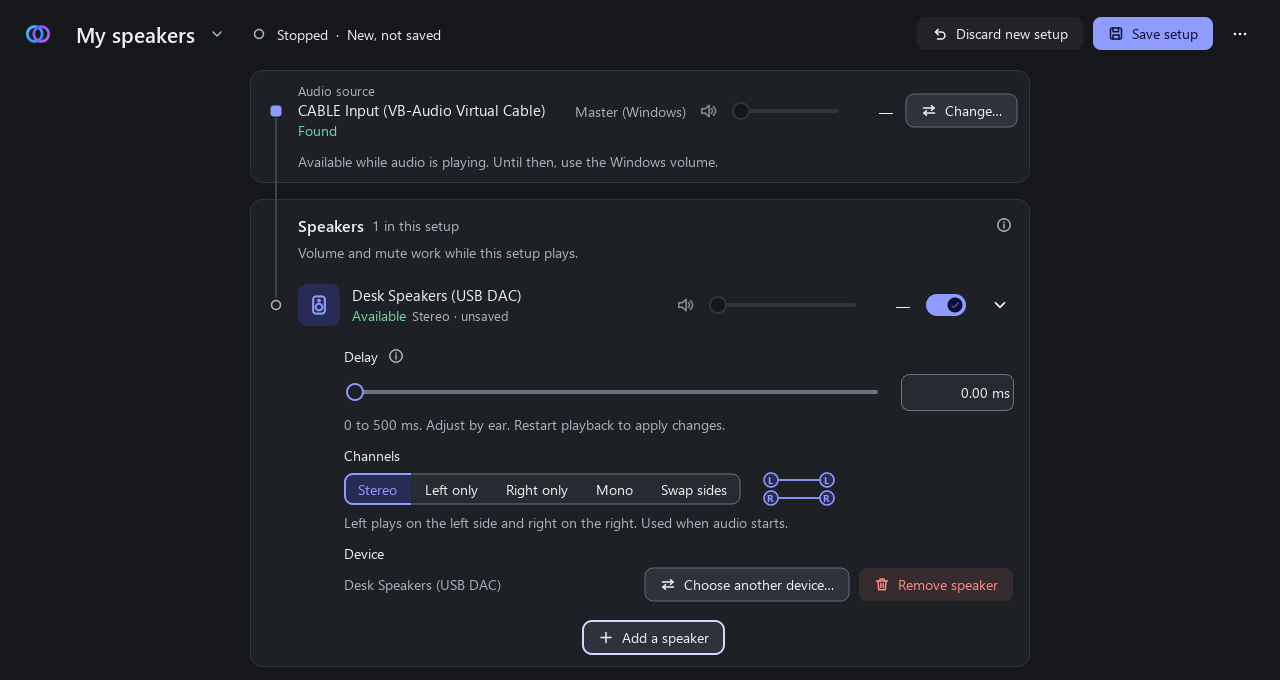
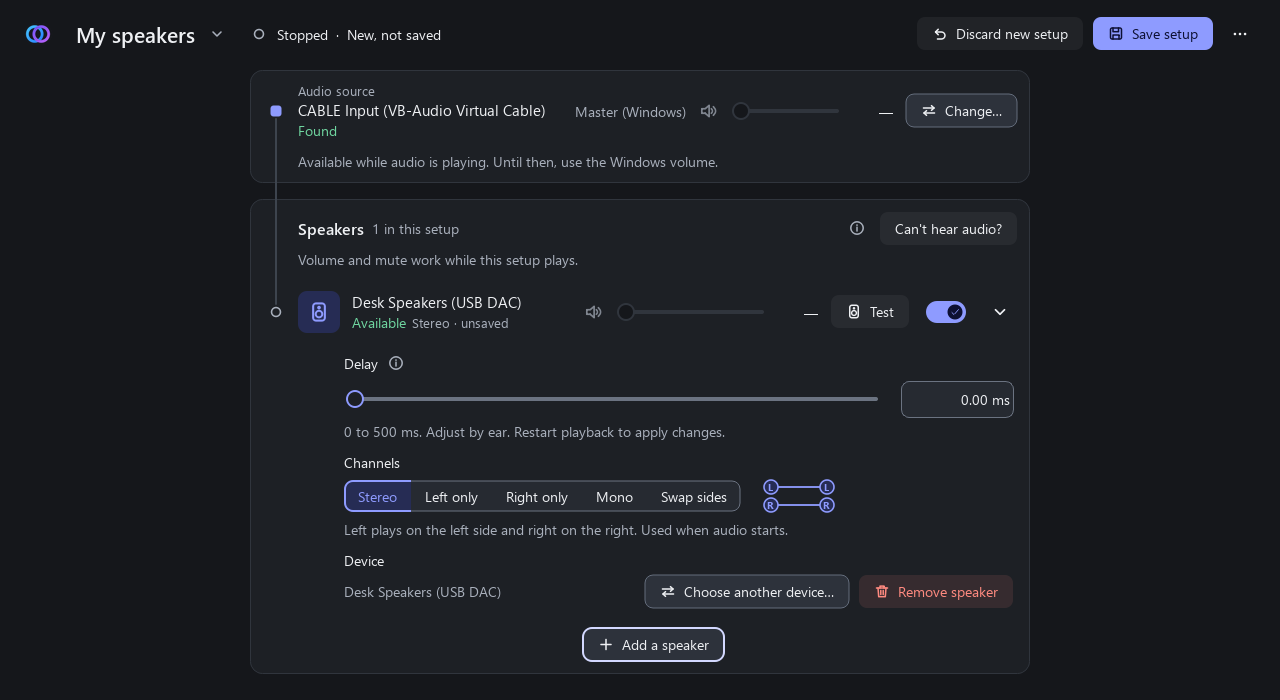
docs: describe the speaker Test button, routing card and help for beta.2
Explain the per-speaker Test button (what it does and does not prove),
the Send audio to PlayNice card and the Volume Mixer button, the
Can't hear audio? help, and the audio-path summary in the diagnostic
report. Refresh the screenshots that show the speaker list.

diff --git a/docs/getting-started.md b/docs/getting-started.md
@@ -127,6 +127,7 @@ If the cable is not found, the screen instead says **Set up your audio source** 
 2. Choose **Add a speaker**. A list of the playback devices Windows has appears.
 3. Select your **wired speaker** and choose **OK**.
 4. Choose **Save setup** at the top right.
+5. Optional: choose **Test** on the speaker's row. PlayNice plays a short, soft sound on that speaker only, so you can check it before anything else. It says *Test sound sent to ... Did you hear it?* That means Windows was given the sound, not that you heard it; if you heard nothing, see [No sound from one speaker](troubleshooting.md#no-sound-from-one-speaker). **Test** does not need VB-CABLE to carry any sound, and it never changes the speaker's Windows volume or mute: if the speaker is muted or at zero in Windows, PlayNice tells you instead. It is off while the playing setup uses that speaker; choose **Stop audio** first.
 
 PlayNice does not accept the cable itself as a speaker. If a device is listed as *unavailable* or *not available now*, switch it on or reconnect it, then use the refresh button in the list.
 
@@ -140,15 +141,15 @@ PlayNice does not accept the cable itself as a speaker. If a device is listed as
   <img src="../assets/screenshots/first-speaker-light.png" alt="A new setup with the cable as source and one speaker added, before saving" width="640">
 </picture>
 
-Saving does not start audio.
+Saving does not start audio. Once the setup is saved, PlayNice shows a card called **Send audio to PlayNice**, with the line *Setup saved. Start audio when you're ready.*
 
 ## 9. Start audio, then route one program to the cable
 
 Order matters here: start PlayNice first, so that sound sent to the cable has somewhere to go.
 
-1. In PlayNice, choose **Start audio**. The status becomes **Playing**.
+1. In PlayNice, choose **Start audio**. The status becomes **Playing**. The card now says *PlayNice is running. Send audio to CABLE Input to hear it through your speakers.* until it hears sound from the cable, and then *Playing on 2 speakers.* (the number of speakers that are playing).
 2. Start something playing in your browser, for example a video. At this moment you may hear it on your normal speakers, because the browser is still using the Windows default device.
-3. In Windows, open **Settings > System > Sound > Volume mixer**.
+3. In Windows, open **Settings > System > Sound > Volume mixer**. The card's **Open Windows Volume Mixer** button opens it for you (it only opens the page; PlayNice does not change any setting in it). **How does this work?** shows these steps again.
 4. Find your browser in the list. For that browser, set the **Output** (the device it plays to) to **CABLE Input (VB-Audio Virtual Cable)**. If you do not see an output list, open the browser's entry (the small arrow on its row) first.
    - A program usually appears in the mixer only after it has played sound. Play something, then look again.
    - Some programs only move to the new device after you pause and resume, or restart them.
@@ -159,6 +160,10 @@ Order matters here: start PlayNice first, so that sound sent to the cable has so
 **Check that it works:** you should hear the browser's sound on the wired speaker only. The Windows default device should be silent for that browser.
 
 **If you hear nothing:** see [No sound from any speaker](troubleshooting.md#no-sound-from-any-speaker). The usual causes are a browser still pointed at another device, or PlayNice not yet playing.
+
+You can also make **CABLE Input** the Windows default output. That sends all sound from the computer through PlayNice. It is optional, and PlayNice never does it for you. Sound sent to CABLE Input cannot be heard while PlayNice is stopped, so choose the default device again (or set the program's output back) if you stop PlayNice.
+
+**Can't hear anything?** Choose **Can't hear audio?** above the speaker list. PlayNice lists what it can tell: whether VB-CABLE is installed, whether a speaker is missing, muted in Windows or failed, and whether it has heard any sound from the cable recently. Silence alone is not an error: a paused video looks the same, so that hint only suggests checking the program's output in Volume Mixer.
 
 **Only that one program goes to PlayNice.** Everything else on the computer keeps using the Windows default device, so you will keep hearing notifications and other programs normally.
 
@@ -174,7 +179,7 @@ Both speakers should now play the browser's sound.
 
 <picture>
   <source media="(prefers-color-scheme: dark)" srcset="../assets/screenshots/playing-two-speakers-dark.png">
-  <img src="../assets/screenshots/playing-two-speakers-light.png" alt="PlayNice playing a setup on two speakers, each with its own volume and a switch" width="640">
+  <img src="../assets/screenshots/playing-two-speakers-light.png" alt="PlayNice playing a setup on two speakers: the Send audio to PlayNice card on top, and for each speaker a volume slider, a Test button and a switch" width="640">
 </picture>
 
 ## 11. Adjust volume and timing

diff --git a/docs/troubleshooting.md b/docs/troubleshooting.md
@@ -8,6 +8,8 @@ Jump to: [No sound from any speaker](#no-sound-from-any-speaker) · [No sound fr
 
 Work through these in order. Each one is a separate possible cause.
 
+**Quickest check:** choose **Can't hear audio?** above the speaker list. It names what PlayNice can establish (VB-CABLE missing or not available, a speaker not connected, muted in Windows or failed to start, audio not started, no sound detected from CABLE Input recently) and offers the matching button. It never changes your Windows settings. The steps below are the long version.
+
 1. **Is PlayNice playing?** The header should say **Playing** and the button should say **Stop audio**. If it says **Stopped**, choose **Start audio**. If an error banner is shown, read it; it says what failed.
 2. **Is the controller running?** A banner saying the controller is not running means nothing can start. Choose **Start controller**.
 3. **Is the program really sending its sound to the cable?** Open **Settings > System > Sound > Volume mixer** and check that the program's **Output** is **CABLE Input (VB-Audio Virtual Cable)**. If you routed nothing to the cable, PlayNice has nothing to play. (If you left the program on the Windows default device, you hear it on that device and PlayNice is not involved.)
@@ -17,10 +19,13 @@ Work through these in order. Each one is a separate possible cause.
 7. **Are the speakers on, connected and turned up?** Each speaker's own volume and mute (on its row and in Windows Sound settings) apply. A speaker listed as unavailable cannot play.
 8. **Are the speakers switched on in the setup?** Each row has a switch. A speaker switched off in the setup is silent.
 9. **Did you save and restart after changing the setup?** A speaker added to a playing setup starts only after **Restart to apply changes**.
+10. **Does the speaker itself work?** Choose **Test** on its row (stop audio first if the playing setup uses it). If you hear the test sound there but not your program, the problem is the routing in Volume mixer; if you hear nothing from **Test** either, the speaker, its Windows volume or its connection is the cause.
 
 If it still fails, [export a diagnostic report](diagnostic-report.md) and [report it](reporting-a-bug.md).
 
 ## No sound from one speaker
+
+**Try Test first.** Choose **Test** on that speaker's row. "Test sound sent to ... Did you hear it?" means Windows was handed the sound. If you did not hear it, continue below. If **Test** says the speaker is muted or at zero in Windows, unmute it or raise it in Windows yourself; PlayNice will not do it. If **Test** says it could not open the speaker, check that nothing else has taken the device exclusively (some apps do) and try again.
 
 1. **Is it listed and available?** On its row, the status should say **Available** or **Playing**. If it says unavailable or not available now, switch it on or reconnect it, then restart playback.
 2. **Was it on when playback started?** A speaker that was off at the start does not join automatically. Switch it on, then choose **Restart audio** or **Restart to apply changes**.

diff --git a/docs/settings-guide.md b/docs/settings-guide.md
@@ -101,6 +101,20 @@ PlayNice does not have a volume of its own. Its sliders are Windows' volumes:
 - If the keyboard volume keys control another device (the cable is not the Windows default output), the Master row says so. This is expected when you route only one program to the cable.
 - Setups saved with older software-volume settings show a notice with a **Remove old volume settings** button.
 
+### Test
+
+Each speaker row has a **Test** button. It plays a short, soft, generated sound (under a second) on that one speaker, for checking that the speaker works with PlayNice.
+
+- It uses the speaker you pressed it on, not the Windows default device, and it does not need any program to be sending sound to the cable.
+- It does not change the speaker's Windows volume or mute, and it does not start or change the setup. If the speaker is muted or at zero in Windows, PlayNice says so and plays nothing; unmute it or raise it yourself.
+- It is off while the playing setup uses that speaker (choose **Stop audio** first), while another test is playing, and for a speaker that is not connected. The button's tooltip says why.
+- *Test sound sent to ... Did you hear it?* means Windows accepted the sound. PlayNice cannot know whether you heard it, and it keeps no answer. A successful test says nothing about how well several speakers are lined up.
+- It stops by itself after about a second, and at the latest after a few seconds; closing the window ends it too.
+
+### Send audio to PlayNice and Can't hear audio?
+
+Under the audio source, a saved setup with a working VB-CABLE shows a card with one sentence about the state of playback and two buttons. **Open Windows Volume Mixer** opens that Windows Settings page (or the Sound page if Windows cannot open it); it changes nothing. **How does this work?** shows the five steps. **Can't hear audio?**, above the speaker list, lists what PlayNice can tell about why nothing is heard. It never changes a Windows setting.
+
 ### Channel modes
 
 For each speaker, open it and choose **Channels**:

diff --git a/docs/faq.md b/docs/faq.md
@@ -56,6 +56,14 @@ Only if you choose it. After you confirm the uninstall, Setup asks **Also uninst
 
 The installer is not yet signed, so Windows may warn about it or block it. Only use an installer from this repository's Releases page, check its checksum, and do not turn off Defender or SmartScreen or add exclusions to run it. See [Installation](installation.md#windows-warnings), and [If Smart App Control blocks PlayNice](installation.md#if-smart-app-control-blocks-playnice) if Smart App Control stops it.
 
+## How do I check one speaker?
+
+Choose **Test** on its row. PlayNice plays a short, soft sound on that speaker only and then says *Test sound sent to ... Did you hear it?* PlayNice can tell that Windows accepted the sound; it cannot know whether you heard it. **Test** works without VB-CABLE carrying anything, does not change the Windows volume or mute, and is off while the playing setup uses that speaker.
+
+## Why do I hear nothing even though PlayNice is playing?
+
+Usually because no program is sending its sound to **CABLE Input**. PlayNice only plays what arrives there. Choose **Open Windows Volume Mixer** on the card under the source, set the program's output to **CABLE Input**, and start something playing. **Can't hear audio?** lists the other causes it can detect. PlayNice never changes the Windows default device or a program's output by itself.
+
 ## Does PlayNice send my information anywhere?
 
 PlayNice does not upload your setups, devices or diagnostic reports. A [diagnostic report](diagnostic-report.md) is saved on your computer only when you ask for one, and you decide whether to share it.

diff --git a/README.md b/README.md
@@ -14,7 +14,7 @@ example a monitor, a USB headset and a Bluetooth speaker.
 
 <picture>
   <source media="(prefers-color-scheme: dark)" srcset="assets/screenshots/outputs-dark.png">
-  <img src="assets/screenshots/outputs-light.png" alt="The PlayNice window playing one setup on two speakers, each with its own volume and mute" width="720">
+  <img src="assets/screenshots/outputs-light.png" alt="The PlayNice window playing one setup on two speakers, with the Send audio to PlayNice card, and a volume, mute and Test button for each speaker" width="720">
 </picture>
 
 *The screenshots on this page use made-up device names.*
@@ -26,6 +26,7 @@ example a monitor, a USB headset and a Bluetooth speaker.
 - **Select an audio source**: the sound of Windows, or of one program, sent to a virtual cable.
 - Save **speaker setups** and switch between them.
 - Set **volume and mute** for each speaker. These change the speaker's volume in Windows.
+- **Test** each speaker with a short, soft sound before you rely on it, and get guided help when you **can't hear audio**.
 - Choose **channels** for each speaker (stereo, left, right, mono or swapped sides).
 - Adjust **timing by ear** with a delay for each speaker.
 - **Start PlayNice at sign-in**, if you want it to.

diff --git a/docs/diagnostic-report.md b/docs/diagnostic-report.md
@@ -24,6 +24,8 @@ The file is named like `PlayNice-Diagnostics-20261030-140509.zip`. The date and 
 
 Devices appear as `source-1`, `speaker-1`, `speaker-2`. These names only mean something inside one report.
 
+**Audio path summary.** Since 0.1.0-beta.2 the report also has a short block of fixed words and counts: whether VB-CABLE looks absent, usable, inactive, unhealthy or waiting for a restart; whether sound from the cable is idle, present or was lost; how many speakers are set up, playing and failed; and how the last **Test** on a speaker ended (completed, failed, cancelled, timed out and so on, with Windows' error code when there was one). It does not say whether you heard the test, because PlayNice cannot know that, and it never includes a speaker's name.
+
 ## What it is designed to leave out
 
 Saved setups and settings, setup names, device names and IDs, Bluetooth addresses, serial numbers, your user name, computer name and folders, audio recordings, registry contents, memory dumps, and the raw log files.
